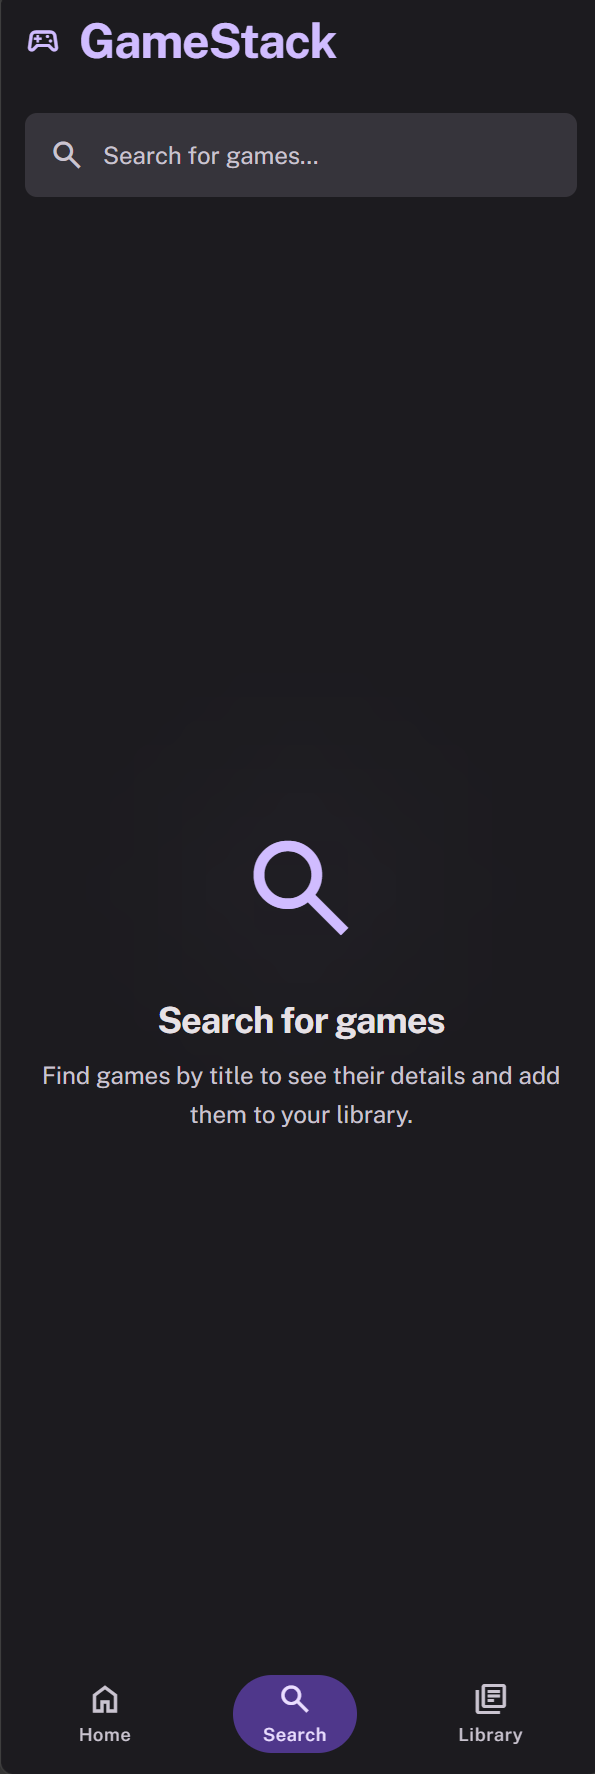
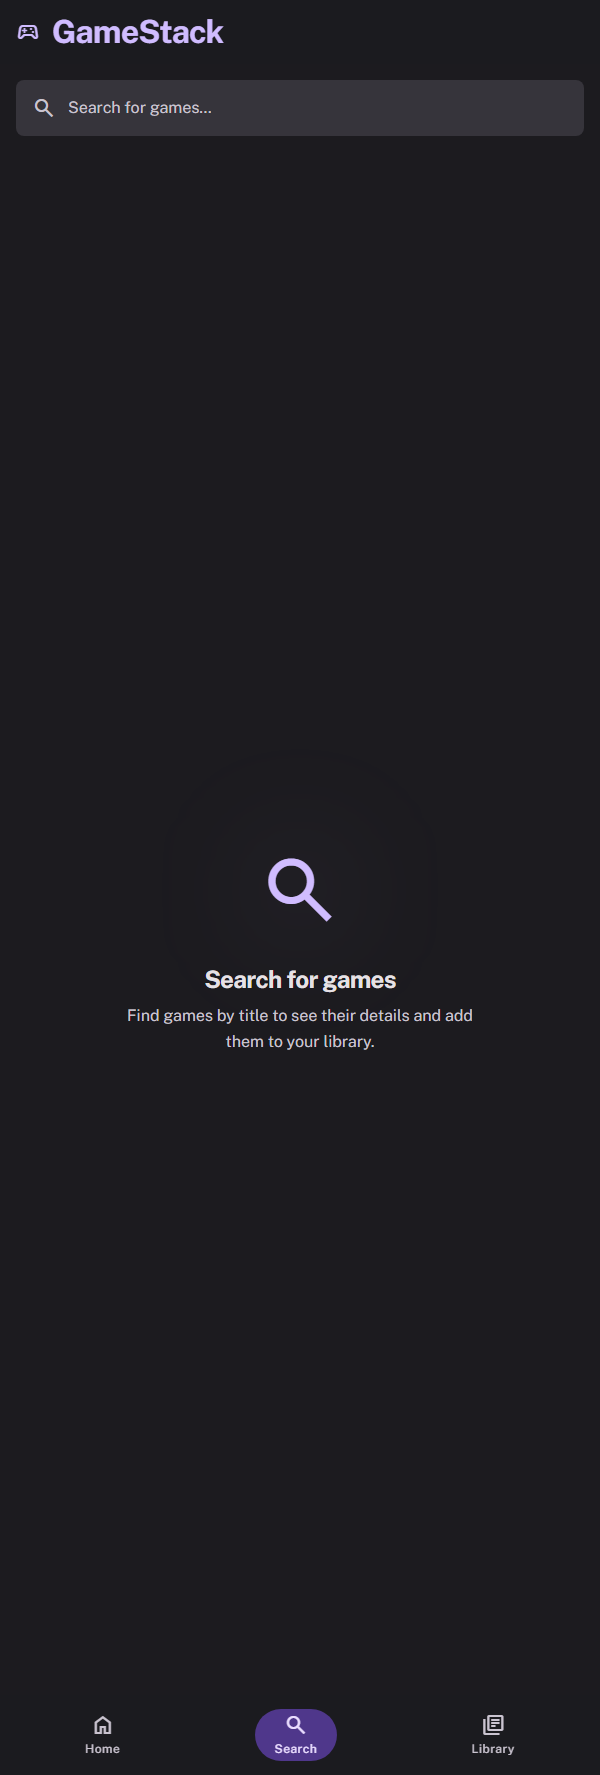
docs: require device verification for UI features
The gate (build/test/lint) proves compilation and asserted logic, never that a
screen looks right or that a control is reachable. Every UI defect found this
session — premature empty state, keyboard covering a button, clipped genre
text — passed it. Adds a Tier 2 device-verification step: verify UI features on
the emulator before requesting a merge, ask for the emulator rather than
launching an AVD unprompted, and choose between Grep over `uiautomator dump`
and `screencap` by which question is being asked, since the dump never contains
the IME window.

The mockup-render recipe and the screenshot-cost model go to a new
docs/project/design/README.md rather than CLAUDE.md, which governs
architectural rules and not tool invocations. Records that shrinking the AVD
saves no tokens: the long edge is clamped to 1568px before billing, so cost
follows aspect ratio alone.

Also regenerates search-initial.png headlessly from the HTML beside it,
replacing a hand-taken capture nobody could reproduce.

diff --git a/docs/project/design/README.md b/docs/project/design/README.md
@@ -1,0 +1,85 @@
+# Design references
+
+One folder per screen (`home/`, `search/`, `library/`, `detail/`) plus `states/`
+for the shared loading/empty/error states. Each screen keeps the approved Stitch
+export as `{state}.html` and its render as `{state}.png`.
+
+The PNG is what most readers actually look at, so it must agree with the HTML
+next to it. Regenerate it rather than re-screenshotting by hand — a manual
+capture depends on window size, zoom and OS scaling, none of which are recorded
+anywhere, so the next person cannot reproduce it.
+
+## Rendering a mockup to PNG
+
+Headless Chrome — "headless" meaning the browser runs with no visible window: it
+lays the page out and rasterises it exactly as normal, then writes the result
+straight to a file instead of painting a screen. No extension, no manual step,
+same output every time.
+
+```bash
+"/c/Program Files/Google/Chrome/Application/chrome.exe" \
+  --headless=new --disable-gpu --hide-scrollbars \
+  --force-device-scale-factor=1 --virtual-time-budget=6000 \
+  --window-size=600,1775 \
+  --screenshot="C:\absolute\path\out.png" \
+  "file:///C:/absolute/path/to/mockup.html"
+```
+
+Four things that are not obvious and each cost a failed attempt:
+
+- **`--screenshot` needs an absolute Windows path.** A relative path fails with
+  `Failed to write file … Acceso denegado`, which reads like a permissions
+  problem and is not one.
+- **`--virtual-time-budget` is required.** These exports pull Tailwind and the
+  webfonts from a CDN; without it Chrome captures before any of that applies and
+  you get an unstyled page.
+- **Width matters.** Below ~600px the Stitch markup clips its own fixed header
+  and search bar at the right edge. 600×1775 matches the existing assets.
+- The Chrome path above is the Windows default; adjust per machine.
+
+## Screenshot cost, and why the AVD size is not a lever
+
+Relevant when an agent reads these renders, or emulator captures, into context.
+
+An image is billed by **area after downscaling**: the long edge is clamped to
+1568px, then cost is roughly `width × height / 750` tokens. Because the long
+edge is always clamped, a tall phone screenshot costs the same whatever the
+native resolution — only the **aspect ratio** survives the downscale:
+
+| Screen | Ratio | ≈ tokens |
+|---|---|---|
+| 1080×2400 or 720×1600 (modern phone) | 20:9 | ~1,475 |
+| 1080×1920 | 16:9 | ~1,845 |
+| Tablet | 4:3 | ~2,460 |
+
+So dropping the AVD from 1080p to 720p saves **nothing** — same ratio, same
+clamp, same cost. It only makes the render worse to read. A modern tall phone is
+already the cheapest sensible shape.
+
+The real levers are **cropping to the region in question**, or downscaling below
+the 1568 clamp before reading — at an 800px long edge the same screenshot costs
+~385 tokens, roughly a quarter, still enough for gross layout though not for
+fine text. `System.Drawing` does this with no extra dependency:
+
+```powershell
+Add-Type -AssemblyName System.Drawing
+$src = [System.Drawing.Image]::FromFile($in)
+$scale = 800 / [Math]::Max($src.Width, $src.Height)
+$w = [int]($src.Width * $scale); $h = [int]($src.Height * $scale)
+$bmp = New-Object System.Drawing.Bitmap $w, $h
+$g = [System.Drawing.Graphics]::FromImage($bmp)
+$g.InterpolationMode = 'HighQualityBicubic'
+$g.DrawImage($src, 0, 0, $w, $h)
+$bmp.Save($out, [System.Drawing.Imaging.ImageFormat]::Png)
+$g.Dispose(); $bmp.Dispose(); $src.Dispose()
+```
+
+For emulator verification specifically, see CLAUDE.md → Commands → Device
+verification: `Grep` over a `uiautomator dump` answers pre-stated questions for
+a fraction of a screenshot's cost, but never anything involving the keyboard.
+
+## Coverage gap
+
+No Skill owns "produce or refresh a design reference". Rendering currently
+happens ad hoc against this file. If it recurs, that is a Skill worth adding
+rather than improvising each time — see CLAUDE.md → Available Skills.

diff --git a/docs/project/DRIFT-CHECKLIST.md b/docs/project/DRIFT-CHECKLIST.md
@@ -137,3 +137,5 @@ useful history for understanding recurring patterns.
 | 2026-08-22 | The same rationale for `try`/`catch` over `runCatching` was written out in full in two RepositoryImpls, and the navigation structure rationale was duplicated between CLAUDE.md and code comments — the exact duplication CLAUDE.md → Tier 3 forbids, guaranteeing the copies drift | Both — doc updated and code fixed. The generalizable rule moved to CLAUDE.md (Architecture → Tier 1) and `new-repository-impl`; code comments shrank to one-line pointers. Rule of thumb recorded by example: a rule that applies to future code lives in CLAUDE.md plus its Skill and gets a pointer in code; rationale for one non-obvious line stays in the code; never both |
 | 2026-08-22 | CLAUDE.md's Git workflow was the only section with no Tier markers, named a "build/tests/lint gate" it never defined, and said nothing about branching, untracked files, or PRs — gaps that produced a real near-miss (untracked `ApicalypseRequestBody.kt` would have been dropped by `git add -u`) and a whole feature left uncommitted | Doc updated — section rewritten with Tier 1/2/3, the gate defined as all three Gradle commands green, plus branch naming, Conventional Commits (adopted 2026-08-22; earlier commits deliberately not rewritten), a light PR rule, and an explicit "read `git status` in full" step |
 | 2026-08-22 | Neither CLAUDE.md nor the Spec said how the bottom nav back stack works, so `Detail` had been implemented as a top-level sibling of the tabs. It got swept into the tabs' `saveState`/`restoreState` without belonging to any tab: leaving a tab from a Detail and returning restored the Detail under no selected tab, and the workaround for it used `NavController.currentBackStack` — `@RestrictTo` API that made `./gradlew lint` fail with a `RestrictedApi` **Error** | Both — code fixed and docs updated. Code: each tab is now a nested graph (`HomeGraph`/`SearchGraph`/`LibraryGraph`) with `Detail` registered inside every one via a shared `NavGraphBuilder` helper, restoring the canonical `popUpTo(findStartDestination){saveState}` + `restoreState` idiom and removing the restricted-API workaround. Docs: CLAUDE.md → Architecture now specifies the structure and every intended back-stack behavior; the Spec's App Navigation section states the user-facing half (a tab restores where you left it, Detail included). Decision approved by the human as a plan-level choice |
+| 2026-08-22 | CLAUDE.md defined "done" as `build`/`test`/`lint` only, so a UI feature could be declared finished with no device check — and none was proposed until the human asked for one. Every UI defect this session (premature empty state, keyboard covering a button, clipped genre text) was invisible to that gate. The technique needed to run the check was also unrecorded: it lived only in one session's memory, where a fresh agent on another machine would have to rediscover it | Doc updated — CLAUDE.md → Commands gained a Tier 2 "Device verification" section: UI features are verified on the emulator before merge, the emulator is *asked for* rather than launched, and `Grep` over `uiautomator dump` versus `screencap` is chosen by which question is being asked, with the IME blind spot stated. `docs/project/design/README.md` created for the mockup-render recipe and the screenshot-cost model — deliberately not in CLAUDE.md, which governs architectural rules, not tool invocations. Also recorded there: shrinking the AVD saves no tokens, since the long edge is clamped before billing |
+| 2026-08-22 | `docs/project/design/search/search-initial.png` was a hand-taken screenshot of its HTML, reproducible by nobody — window size, zoom and OS scaling were recorded nowhere | Asset fixed — regenerated headlessly at 600×1775 from the HTML beside it; `design/README.md` now carries the command so the next one is reproducible |

diff --git a/CLAUDE.md b/CLAUDE.md
@@ -78,6 +78,38 @@ drift returns.
     Plain `test` is a lifecycle task and rejects `--tests`.
 - Lint: `./gradlew lint`
 
+### Device verification — Tier 2
+The gate above (`build`/`test`/`lint`) is necessary but **not sufficient for UI
+work**: it proves the code compiles and that the logic does what a test asserts,
+never that a screen looks right or that a control is reachable. Every feature
+that adds or changes a screen is also verified on the emulator before a merge is
+requested, and the PR body says what was checked. Data/domain work with no UI
+change does not need this pass.
+
+- Install: `ANDROID_SERIAL=emulator-5554 ./gradlew installDebug`. `adb` is not
+  on PATH — use `$env:LOCALAPPDATA\Android\Sdk\platform-tools\adb.exe`.
+- **If no emulator is running, ask for one** — do not declare a UI feature done
+  without this pass, and do not launch an AVD unprompted (it opens a window on
+  the user's desktop).
+- **Two tools, two questions.** `Grep` over `uiautomator dump` for assertions
+  that can be stated in advance (which tab is `selected="true"`, whether a text
+  or node exists) — only matching lines enter context, so it is by far the
+  cheaper path. `adb exec-out screencap -p`, read as an image, when the
+  criterion is visual (clipping, spacing, contrast, alignment) and **whenever a
+  keyboard may be on screen**: the dump contains only the app window, never the
+  IME, so it reports as visible controls the keyboard is actually covering.
+  This cost real debugging time once — taps aimed from dump coordinates landed
+  on keyboard keys. `dumpsys input_method` is unreliable on this AVD for the
+  same question. Close every UI verification with at least one screenshot: the
+  dump cannot find what nobody thought to assert, and three of the Search bugs
+  were purely visual.
+- Cover every state the screen declares (initial, loading, content, empty,
+  error), plus the keyboard raised if there is a text field. Network-dependent
+  states can be forced with `adb shell svc data disable` / `svc wifi disable`.
+- Screenshot cost is set by aspect ratio, not by AVD resolution — see
+  `docs/project/design/README.md`. Do not shrink the AVD to save tokens; it
+  saves none.
+
 ## Git workflow
 
 ### Tier 1 — Immutable

diff --git a/docs/project/GameStack-Spec-v1.md b/docs/project/GameStack-Spec-v1.md
@@ -176,6 +176,8 @@ guess at.
   `.claude/skills/`, kept as a record of how the project was built. Not
   invocable. Currently: `project-scaffold`.
 - `docs/project/design/` — approved Stitch exports (HTML + PNG) per screen,
-  plus `design/states/` for the shared loading/empty/error states
+  plus `design/states/` for the shared loading/empty/error states.
+  `design/README.md` covers how to regenerate a PNG from its HTML and what a
+  screenshot costs to read
 - `docs/project/DESIGN.md` — visual design system (colors, typography, spacing)
 - `docs/project/DRIFT-CHECKLIST.md` — manual audit checklist against CLAUDE.md Tier 1 rules
